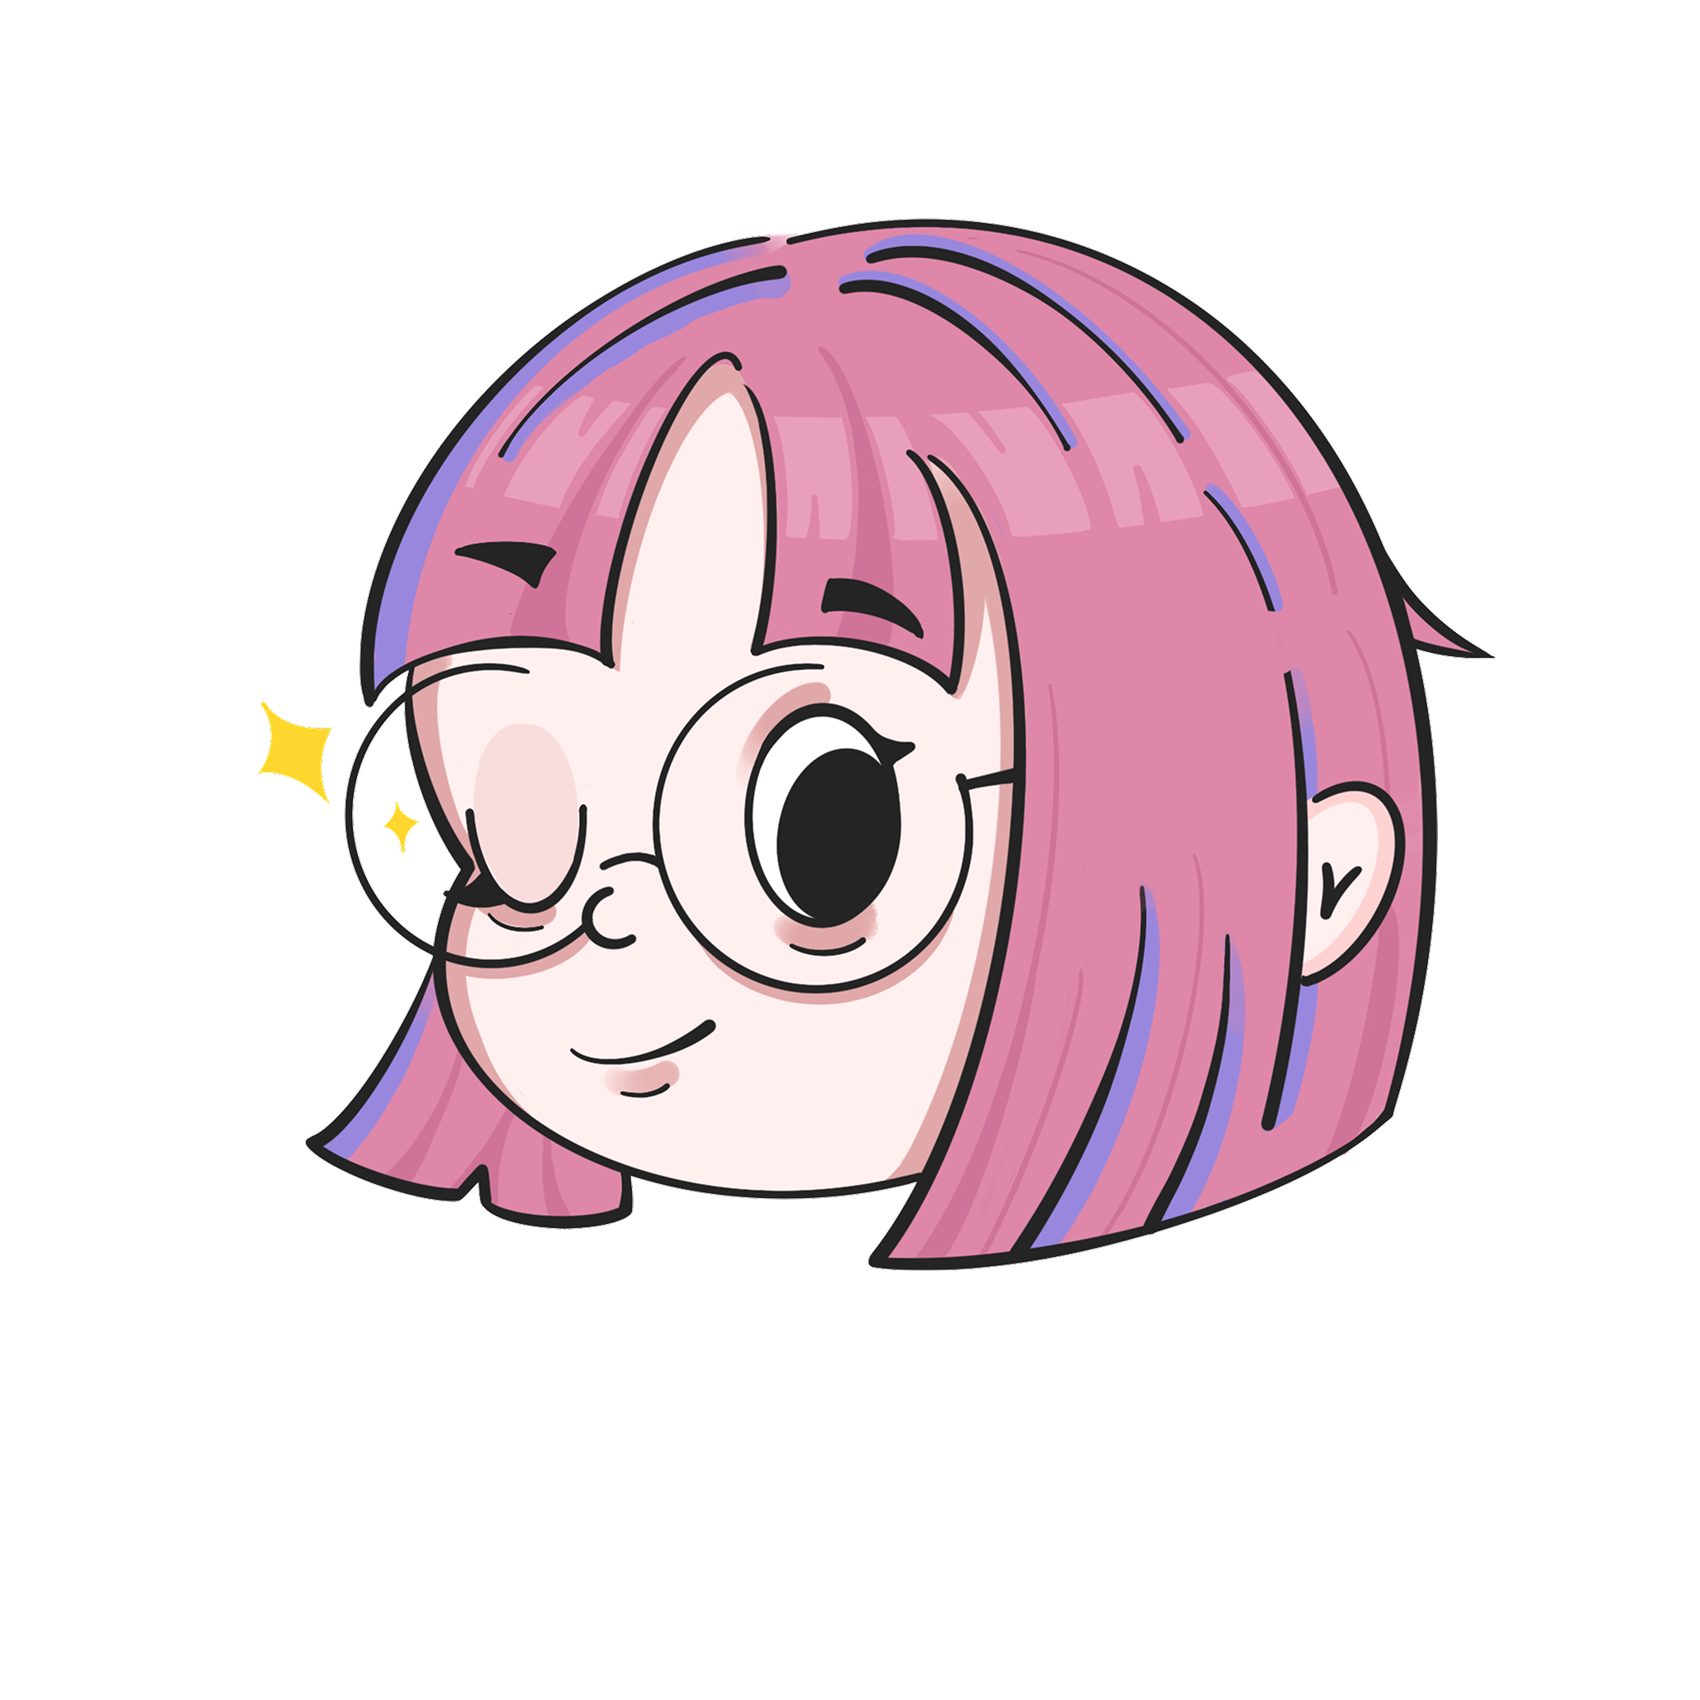
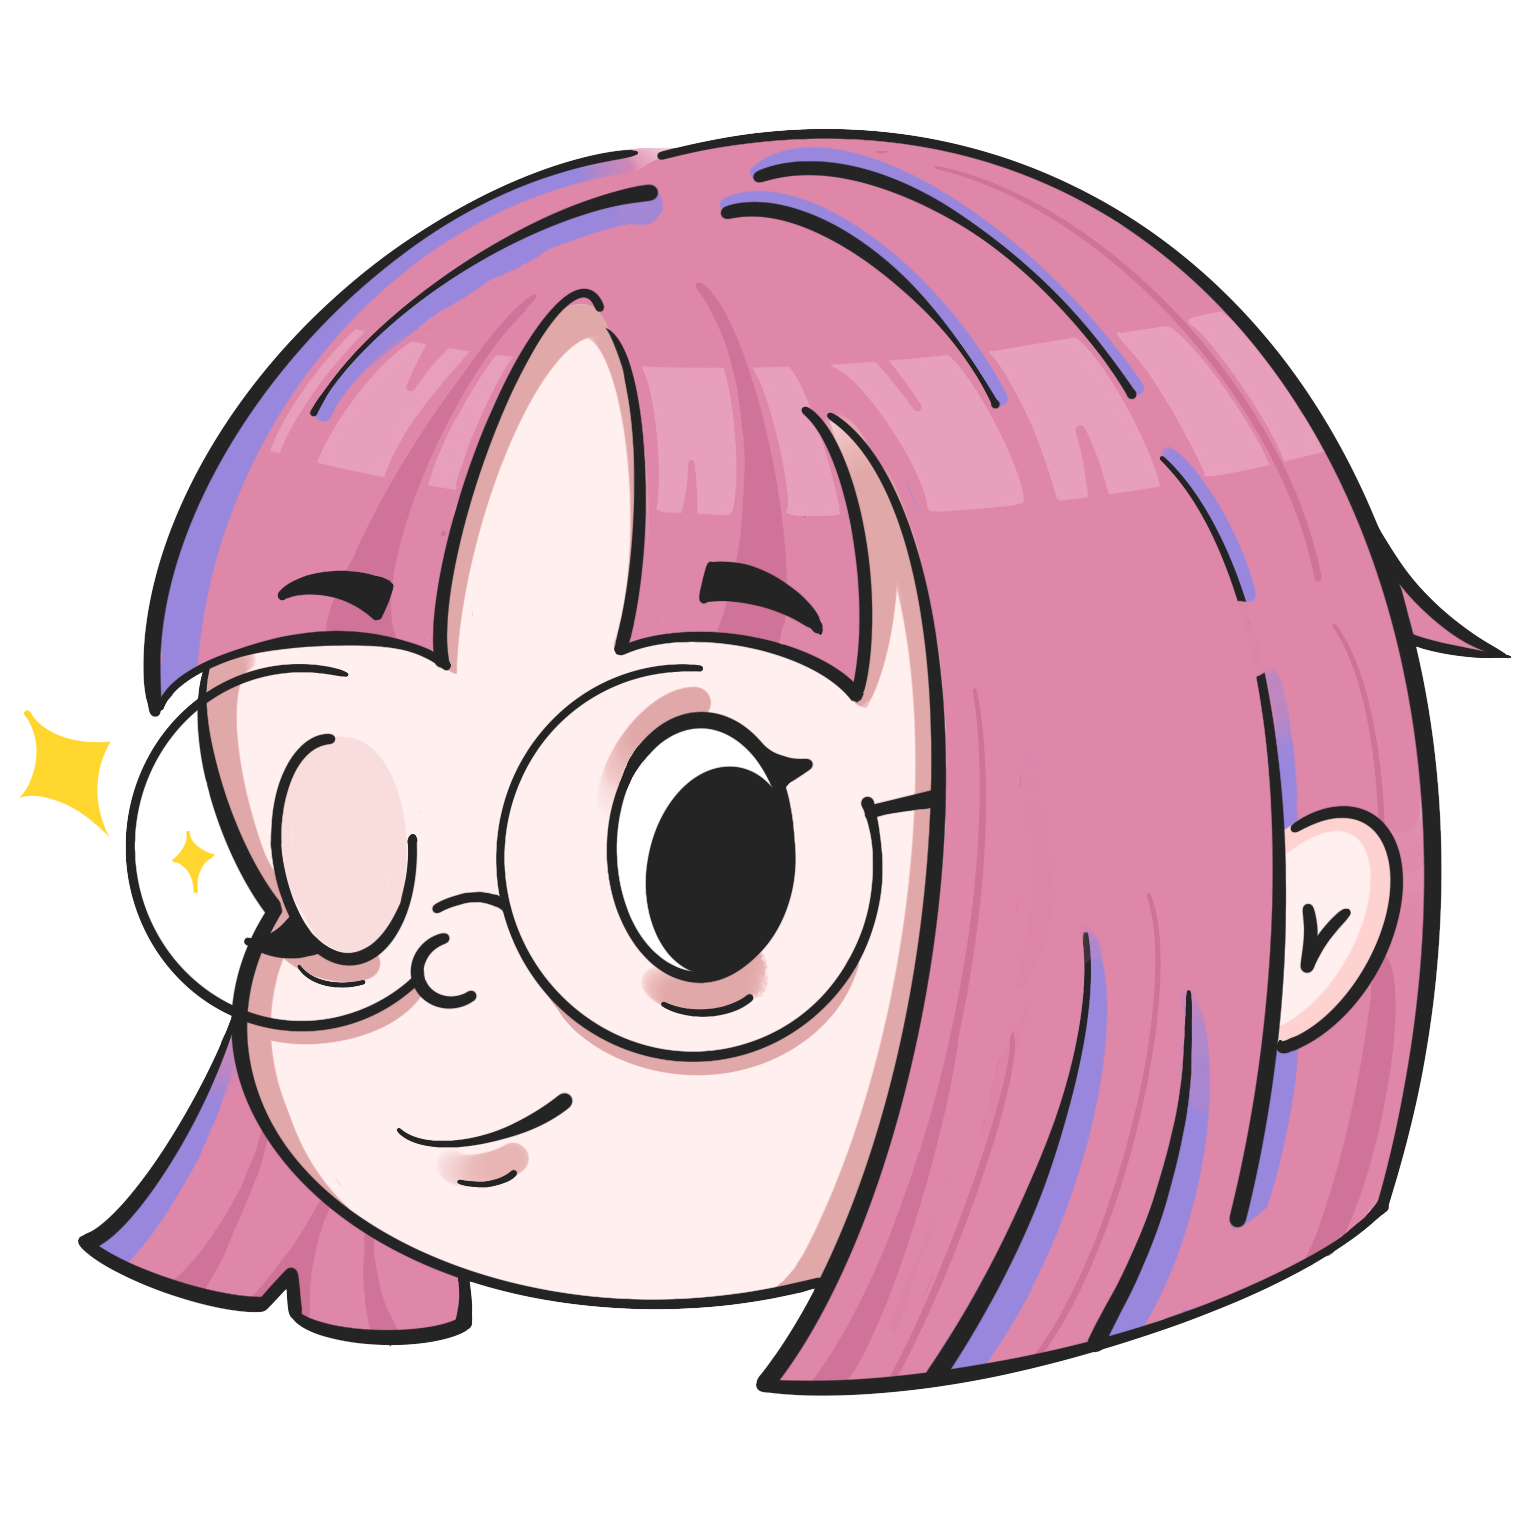
update hero image size for home and about page. Add pagination UI for artwork page.

diff --git a/styles/hero_styles.css b/styles/hero_styles.css
@@ -1,3 +1,5 @@
+/* Hero section for home page and about page */
+
 /*      */
 /* HERO */
 /*      */
@@ -5,26 +7,30 @@
     display: flex;
     flex-direction: column;
     
-    /* justify-content: center; */
+    justify-content: center;
     height: calc(100vh - 64px);
     padding: 2rem;
-    margin: 128px 0 0 0;
+    /* margin: 128px 0 0 0; */
 }
 
 #hero-container{
     display: flex;
     flex-direction: row;
+    /* align-items: center; */
     /* width: 100%; */
+    height: 80%;
 }
 
-#hero-text-container {
+/*           */
+/* HERO FACE */
+/*           */
+#hero-face-container {
+    position: relative;
+    width: 100%;
+    height: 100%;
     display: flex;
-    flex-direction: column;
-    justify-content: flex-start;
-}
-
-.hi-there {
-    width: min(50%, 240px);
+    justify-content: center;
+    align-items: center;
 }
 
 .hero-face {
@@ -33,70 +39,6 @@
     max-width: 800px;
 }
 
-
-#hero-name {
-    font-size: clamp(2.5rem, 5vw, 5rem);
-}
-
-#hero-name-purple {
-    color: var(--primary-color);
-    /* stroke is likely not supported by IE browser */
-    -webkit-text-stroke: 3px var(--primary-text);
-}
-
-#hero p {
-    font-size: clamp(1rem, 2vw, 1.5rem);
-}
-
-#hero .arrow {
-    height: min(40px, 4vw);
-    position: absolute;
-    bottom: 2rem;
-}
-
-
-/*       */
-/* ABOUT */
-/*       */
-#about-container {
-    display: flex;
-    flex-direction: row;
-    padding: 5rem;
-}
-
-.about-text-container {
-    display: flex;
-    flex-direction: column;
-    justify-content: center;
-    align-items: flex-start;
-    gap: 20px;
-}
-
-
-
-/* Media Query for Smaller Screens */
-@media (max-width: 768px) {
-    #hero-container, #about-container {
-        flex-direction: column;
-        align-items: center;
-    }
-
-    .hero-face {
-        width:min(70%, 400px);
-    }
-}
-
-/*      */
-/* FACE */
-/*      */
-#hero-face-container {
-    position: relative;
-    width: 100%;
-    height: 30vh;
-    display: flex;
-    justify-content: center;
-    align-items: center;
-}
 #hero-face-container img{
     position: absolute;
 }
@@ -128,10 +70,87 @@
     }
 }
 
+/*           */
+/* HERO TEXT */
+/*           */
+#hero-text-container {
+    display: flex;
+    flex-direction: column;
+    justify-content: center;
+    width: 100%;
+    height: 100%;
+}
+
+.hi-there {
+    width: min(50%, 240px);
+}
+
+
+#hero-name {
+    font-size: clamp(2.5rem, 5vw, 5rem);
+}
+
+#hero-name-purple {
+    color: var(--primary-color);
+    /* stroke is likely not supported by IE browser */
+    -webkit-text-stroke: 3px var(--primary-text);
+}
+
+#hero p {
+    font-size: clamp(1rem, 2vw, 1.5rem);
+}
+
+#hero .arrow {
+    height: min(36px, 4vw);
+    position: absolute;
+    bottom: 2rem;
+}
+
+
+/*       */
+/* ABOUT */
+/*       */
+#about-container {
+    display: flex;
+    flex-direction: row;
+    padding: 5rem;
+    gap: 1rem;
+}
+
+#about-container .hero-face {
+    width: min(50%, 400px);
+}
+
+.about-text-container {
+    display: flex;
+    flex-direction: column;
+    justify-content: center;
+    align-items: flex-start;
+    gap: 20px;
+}
+
+
+
+/* Media Query for Smaller Screens */
+@media (max-width: 768px) {
+    #hero-container, #about-container {
+        flex-direction: column;
+        align-items: center;
+    }
+
+    .hero-face {
+        width:min(70%, 360px);
+    }
+}
+
+
+
 /*          */
 /* SPIN TEXT*/
 /*          */
-
+.sp-words-wrapper {
+    height: 2rem;
+}
 .sp-words-wrapper span {
     color: var(--primary-text);
     font-family: "Bungee", sans-serif;

diff --git a/artwork.html b/artwork.html
@@ -27,7 +27,7 @@
         </nav>
     </header>
 
-    <section id="poser-section">
+    <section id="poser-section" class="artwork-section">
         <h1>Poster design</h1>
         <div class="cards-container">
             <article class="card">
@@ -44,14 +44,15 @@
             </article>
         </div>
         <div class="pagination">
-            <button class="page-button"><</button>
-            <button class="page-button">1</button>
-            <button class="page-button">2</button>
-            <button class="page-button">></button>
+            <button class="page-button"><img class="page-arrow" src="assets/arrow_left_black.png" alt="previous page"></button>
+            <button class="page-number-button">01</button>
+            <div class="page-break-line"></div>
+            <button class="page-number-button">02</button>
+            <button class="page-button"><img class="page-arrow" src="assets/arrow_right_black.png" alt="next page"></button>
         </div>
     </section>
 
-    <section id="graphic-section">
+    <section id="graphic-section" class="artwork-section">
         <h1>Poster design</h1>
         <div class="cards-container">
             <article class="card">
@@ -67,9 +68,16 @@
                 <h2 class="art-title">project</h2>
             </article>
         </div>
+        <div class="pagination">
+            <button class="page-button"><img class="page-arrow" src="assets/arrow_left_black.png" alt="previous page"></button>
+            <button class="page-number-button">01</button>
+            <div class="page-break-line"></div>
+            <button class="page-number-button">02</button>
+            <button class="page-button"><img class="page-arrow" src="assets/arrow_right_black.png" alt="next page"></button>
+        </div>
     </section>
 
-    <section id="watercolour-section">
+    <section id="watercolour-section" class="artwork-section">
         <h1>Poster design</h1>
         <div class="cards-container">
             <article class="card">
@@ -84,6 +92,13 @@
                 <img class="art-image solid-border" src="https://placehold.co/300">
                 <h2 class="art-title">project</h2>
             </article>
+        </div>
+        <div class="pagination">
+            <button class="page-button"><img class="page-arrow" src="assets/arrow_left_black.png" alt="previous page"></button>
+            <button class="page-number-button">01</button>
+            <div class="page-break-line"></div>
+            <button class="page-number-button">02</button>
+            <button class="page-button"><img class="page-arrow" src="assets/arrow_right_black.png" alt="next page"></button>
         </div>
     </section>
 

diff --git a/styles/styles.css b/styles/styles.css
@@ -43,12 +43,23 @@ h1, h2 {
 }
 
 section {
-    margin: 2rem 0;
+    /* margin: 2rem 0; */
+    display: flex;
+    flex-direction: column;
+    align-items: center;
+    margin: 0 auto;
+    margin-top: 42px;
+    max-width: 1200px;
 }
 
 a {
     text-decoration: none;
     color: inherit;
+}
+
+#see-more-link {
+    /* width: 80%;
+    text-align: end; */
 }
 
 button {
@@ -113,12 +124,12 @@ nav .selected{
 /*      */
 /* CARD */
 /*      */
-section {
+/* section {
     display: flex;
     flex-direction: column;
     align-items: center;
     margin: 0 auto;
-}
+} */
 
 /* TODO: flex card size */
 .cards-container {
@@ -217,6 +228,12 @@ hr {
 
 /* ARTWORKS CARD */
 
+.artwork-section{
+    max-width: 100%;
+    margin: 0 auto;
+    padding: 42px 0;
+}
+
 #graphic-section {
     background-color: var(--primary-light);
 }
@@ -241,6 +258,51 @@ hr {
     color: var(--primary-color);
 }
 
+.pagination {
+    display: flex;
+    justify-content: center;
+    align-items: center;
+    gap: 1rem;
+    margin: 2rem 0;
+}
+.page-button {
+    width: 72px;
+    height: 72px;
+    padding: 21px;
+    background-color: transparent;
+    color: var(--primary-text);
+}
+
+.page-button:hover {
+    background-color: #9887dd7d;
+    /* color: var(--primary-color); */
+}
+
+.page-arrow {
+    width: 24px;
+    height: 24px;
+}
+
+.page-number-button {
+    font-family: "Bungee", sans-serif;
+    font-weight: 400;
+    border: none;
+    background-color: transparent;
+    color: var(--primary-text); 
+}
+
+.page-number-button:hover {
+    background-color: transparent;
+    color: var(--primary-color); 
+}
+
+.page-break-line {
+    display: inline-block;
+    width: 4rem;
+    height: 3px;
+    background-color: var(--primary-text);
+    margin: 0 auto;
+}
 
 
 

diff --git a/about.html b/about.html
@@ -50,7 +50,7 @@
             </p>
             <button>Open Resume</button>
         </div>
-        <img src="assets/hero/hero_face.png"class="hero-face">
+        <img src="assets/hero/hero_face1.png"class="hero-face">
     </section>
 
     <footer>
@@ -58,7 +58,5 @@
             ©2025 Cheyenne Wu. All Rights Reserved.
         </p>
     </footer>
-
-    <script src="scripts.js"></script>
 </body>
 </html>

diff --git a/index.html b/index.html
@@ -59,7 +59,7 @@
 
     <section>
         <h1>Featured Work</h1>
-        <a href="./uiux.html">See more →</a>
+        <a href="./uiux.html" id="see-more-link">See more UI/UX projects →</a>
 
         <div class="cards-container">
             <article class="card">
